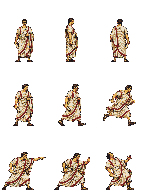
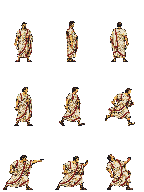
fix: normalize cast scale and verify gallery touch controls

diff --git a/tools/pixelize.py b/tools/pixelize.py
@@ -120,7 +120,10 @@ def character(source, output):
         if distance(anchors[nearest]) < (source.width * .06) ** 2:
             groups[nearest].append(item)
     crops = [isolate(source, labels, group) for group in groups]
-    scale = min(44 / max(c.width for c in crops[:9]), 60 / max(c.height for c in crops[:9]))
+    # Shared standing height across the cast. Wide sword keys keep their scale,
+    # rather than shrinking only an attack or making civilians larger than centurions.
+    scale = min(44 / max(c.width for c in crops[:9]), 40 / crops[0].height,
+                60 / max(c.height for c in crops[:9]))
     atlas = Image.new("RGBA", (144, 192))
     for n, crop in enumerate(crops[:9]):
         sprite = crop.resize((max(1, round(crop.width * scale)), max(1, round(crop.height * scale))), NEAREST)

diff --git a/tools/validate_assets.py b/tools/validate_assets.py
@@ -22,7 +22,7 @@ def check(path, size, transparency=False, opaque=False):
         errors.append(f'Missing {path.relative_to(ROOT)}')
         return
     image = Image.open(path).convert('RGBA')
-    unique = set(image.getdata())
+    unique = {color for count, color in image.getcolors(maxcolors=image.width * image.height)}
     visible = {(r, g, b) for r, g, b, a in unique if a}
     alphas = {a for r, g, b, a in unique}
     if image.size != tuple(size):
